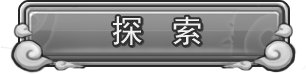
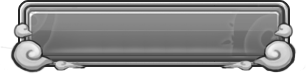
添加bossLayer

Changed region(s): [[0.3529, 0.1892, 0.4706, 0.6486], [0.5588, 0.1892, 0.6765, 0.6486]]

diff --git a/client/cocos2d-x-2.2.1/projects/Magpie/Resources/src/view/mainModule/bossLayer.js b/client/cocos2d-x-2.2.1/projects/Magpie/Resources/src/view/mainModule/bossLayer.js
@@ -1,3 +1,193 @@
 /**
  * Created by lujunyu on 14-2-27.
  */
+
+var BossLayer = cc.Layer.extend({
+    _bossLayerFit: null,
+
+    init: function () {
+        cc.log("BossLayer init");
+
+        if (!this._super()) return false;
+
+        this._bossLayerFit = gameFit.mainScene.bossLayer;
+
+        var bgSprite = cc.Sprite.create(main_scene_image.bg11);
+        bgSprite.setAnchorPoint(cc.p(0, 0));
+        bgSprite.setPosition(this._bossLayerFit.bgSpritePoint);
+        this.addChild(bgSprite);
+
+        var headIcon = cc.Sprite.create(main_scene_image.icon2);
+        headIcon.setAnchorPoint(cc.p(0, 0));
+        headIcon.setPosition(this._bossLayerFit.headIconPoint);
+        this.addChild(headIcon);
+
+        var titleIcon = cc.Sprite.create(main_scene_image.icon394);
+        titleIcon.setPosition(this._bossLayerFit.titleIconPoint);
+        this.addChild(titleIcon);
+
+        var headLabel = cc.Sprite.create(main_scene_image.icon147);
+        headLabel.setAnchorPoint(cc.p(0, 0));
+        headLabel.setPosition(this._bossLayerFit.headLabelPoint);
+        this.addChild(headLabel);
+
+        var goldIcon = cc.Sprite.create(main_scene_image.icon148);
+        goldIcon.setPosition(this._bossLayerFit.goldIconPoint);
+        this.addChild(goldIcon);
+
+        this._goldLabel = cc.LabelTTF.create("100000", "STHeitiTC-Medium", 20);
+        this._goldLabel.setAnchorPoint(cc.p(0, 0.5));
+        this._goldLabel.setPosition(this._bossLayerFit.goldLabelPoint);
+        this.addChild(this._goldLabel);
+
+        var bossNameLabel = cc.LabelTTF.create("无敌大魔王", "STHeitiTC-Medium", 30);
+        bossNameLabel.setAnchorPoint(cc.p(0.5, 0));
+        bossNameLabel.setPosition(this._bossLayerFit.bossNameLabelPoint);
+        bossNameLabel.setColor(cc.c3b(252, 254, 143));
+        this.addChild(bossNameLabel);
+
+        var runAwayTimeLabel = cc.LabelTTF.create("逃跑时间: ", "STHeitiTC-Medium", 22);
+        runAwayTimeLabel.setAnchorPoint(cc.p(0.5, 0));
+        runAwayTimeLabel.setPosition(this._bossLayerFit.runAwayLabelPoint);
+        this.addChild(runAwayTimeLabel);
+
+        this._bossCdTimeLabel = cc.LabelTTF.create("00: 00: 00", "STHeitiTC-Medium", 22);
+        this._bossCdTimeLabel.setAnchorPoint(cc.p(0.5, 0));
+        this._bossCdTimeLabel.setPosition(this._bossLayerFit.bossCdTimeLabelPoint);
+        this.addChild(this._bossCdTimeLabel);
+
+        var cardFrame = cc.Sprite.create(main_scene_image.card_frame1);
+        cardFrame.setAnchorPoint(cc.p(0.5, 0));
+        cardFrame.setScale(1.2);
+        cardFrame.setPosition(this._bossLayerFit.cardFramePoint);
+        this.addChild(cardFrame);
+
+        var bossCard = cc.Sprite.create(main_scene_image.card43_half3);
+        bossCard.setAnchorPoint(cc.p(0.5, 0));
+        bossCard.setPosition(this._bossLayerFit.bossCardPoint);
+        bossCard.setScale(1.4);
+        this.addChild(bossCard);
+
+        this._countLeftLabel = cc.LabelTTF.create("剩余攻击次数: 9次", "STHeitiTC-Medium", 25);
+        this._countLeftLabel.setAnchorPoint(cc.p(0.5, 0));
+        this._countLeftLabel.setPosition(this._bossLayerFit.countLeftLabelPoint);
+        this._countLeftLabel.setColor(cc.c3b(167, 28, 0));
+        this.addChild(this._countLeftLabel);
+
+        var inspireIcon = cc.Sprite.create(main_scene_image.icon399);
+        inspireIcon.setAnchorPoint(cc.p(0.5, 0));
+        inspireIcon.setPosition(this._bossLayerFit.inspireIconPoint);
+        this.addChild(inspireIcon);
+
+        var additionBgLabel = cc.Sprite.create(main_scene_image.icon401);
+        additionBgLabel.setAnchorPoint(cc.p(0.5, 0));
+        additionBgLabel.setPosition(this._bossLayerFit.additionBgLabelPoint);
+        this.addChild(additionBgLabel);
+
+        this._additionLabel = cc.LabelTTF.create("攻击加成: 100%", "STHeitiTC-Medium", 20);
+        this._additionLabel.setAnchorPoint(cc.p(0.5, 0));
+        this._additionLabel.setPosition(this._bossLayerFit.additionLabelPoint);
+        this.addChild(this._additionLabel);
+
+        var attackCdTimeLabel = cc.LabelTTF.create("攻击冷却时间: ","STHeitiTC-Medium", 22);
+        attackCdTimeLabel.setAnchorPoint(cc.p(0.5, 0));
+        attackCdTimeLabel.setPosition(this._bossLayerFit.attackCdTimeLabelPoint);
+        this.addChild(attackCdTimeLabel);
+
+        this._cdTimeLabel = cc.LabelTTF.create("00: 00: 00","STHeitiTC-Medium", 22);
+        this._cdTimeLabel.setAnchorPoint(cc.p(0.5, 0));
+        this._cdTimeLabel.setPosition(this._bossLayerFit.cdTimeLabelPoint);
+        this.addChild(this._cdTimeLabel);
+
+        var addItem = cc.MenuItemImage.create(
+            main_scene_image.button16,
+            main_scene_image.button16s,
+            this._onClickAdd,
+            this
+        );
+
+        addItem.setAnchorPoint(cc.p(0.5, 0));
+        addItem.setScale(1.2);
+        addItem.setPosition(this._bossLayerFit.addItemPoint);
+
+        var subItem = cc.MenuItemImage.create(
+            main_scene_image.button35,
+            main_scene_image.button35s,
+            this._onClickSub,
+            this
+        );
+
+        subItem.setAnchorPoint(cc.p(0.5, 0));
+        subItem.setScale(1.2);
+        subItem.setPosition(this._bossLayerFit.subItemPoint);
+
+        var attack = cc.MenuItemImage.create(
+            main_scene_image
+        );
+
+        var backItem = cc.MenuItemImage.create(
+            main_scene_image.button8,
+            main_scene_image.button8s,
+            this._onClickBack,
+            this
+        );
+
+        backItem.setPosition(this._bossLayerFit.backItemPoint);
+
+        var attackRecordItem = cc.MenuItemImage.createWithIcon(
+            main_scene_image.button9,
+            main_scene_image.button9s,
+            main_scene_image.button9d,
+            main_scene_image.icon398,
+            this._onClickAttackRecord,
+            this
+        );
+
+        attackRecordItem.setPosition(this._bossLayerFit.attackRecordItemPoint);
+
+        var menu = cc.Menu.create(addItem, subItem, backItem, attackRecordItem);
+        menu.setPosition(cc.p(0, 0));
+        this.addChild(menu);
+
+        return true;
+    },
+
+    _onClickAdd: function () {
+        cc.log("BossLayer _onClickAdd");
+
+        gameData.sound.playEffect(main_scene_image.click_button_sound, false);
+
+    },
+
+    _onClickSub: function () {
+        cc.log("BossLayer _onClickSub");
+
+        gameData.sound.playEffect(main_scene_image.click_button_sound, false);
+
+    },
+
+    _onClickBack: function () {
+        cc.log("BossLayer _onClickBack");
+
+        gameData.sound.playEffect(main_scene_image.click_button_sound, false);
+
+        MainScene.getInstance().switchLayer(BossListLayer);
+    },
+
+    _onClickAttackRecord: function () {
+        cc.log("BossLayer _onClickAttackRecord");
+
+        gameData.sound.playEffect(main_scene_image.click_button_sound, false);
+    }
+
+});
+
+BossLayer.create = function () {
+    cc.log("BossLayer create");
+
+    var ref = new BossLayer();
+    if (ref && ref.init()) {
+        return ref;
+    }
+    return null;
+};

diff --git a/client/cocos2d-x-2.2.1/projects/Magpie/Resources/src/model/gameFit.js b/client/cocos2d-x-2.2.1/projects/Magpie/Resources/src/model/gameFit.js
@@ -194,6 +194,29 @@ var fit4Iphone4 = {
             "scrollViewSize": cc.size(605, 742),
             "scrollViewPoint": cc.p(57, 119)
         },
+        "bossLayer": {
+            "bgSpritePoint": cc.p(40, 106),
+            "headIconPoint": cc.p(40, 880),
+            "titleIconPoint": cc.p(360, 920),
+            "headLabelPoint": cc.p(40, 817),
+            "goldIconPoint": cc.p(400, 846),
+            "goldLabelPoint": cc.p(430, 844),
+            "bossNameLabelPoint": cc.p(360, 760),
+            "runAwayLabelPoint": cc.p(310, 730),
+            "bossCdTimeLabelPoint": cc.p(410, 730),
+            "cardFramePoint": cc.p(360, 500),
+            "bossCardPoint": cc.p(360, 500),
+            "countLeftLabelPoint": cc.p(360, 470),
+            "inspireIconPoint": cc.p(210, 350),
+            "additionBgLabelPoint": cc.p(410, 370),
+            "additionLabelPoint": cc.p(410, 385),
+            "attackCdTimeLabelPoint": cc.p(300, 150),
+            "cdTimeLabelPoint": cc.p(420, 148),
+            "addItemPoint": cc.p(300, 343),
+            "subItemPoint": cc.p(520, 343),
+            "backItemPoint": cc.p(100, 920),
+            "attackRecordItemPoint": cc.p(600, 846)
+        },
         "bossListLayer": {
             "bgSpritePoint": cc.p(40, 106),
             "headIconPoint": cc.p(40, 880),
@@ -1385,7 +1408,7 @@ var fit4Iphone4 = {
             "headLabelPoint": cc.p(40, 817),
             "goldIconPoint": cc.p(240, 846),
             "moneyIconPoint": cc.p(370, 846),
-            "goldLabelPoint": cc.p(280, 844),
+            "goldLabelPoint": cc.p(270, 844),
             "moneyLabelPoint": cc.p(395, 844),
             "paymentItemPoint": cc.p(600, 846),
             "buyIconPoint": cc.p(535, 841),
@@ -1619,6 +1642,16 @@ var fit4Iphone5 = {
             "scrollViewLayerRect": cc.rect(17, 138, 605, 880),
             "scrollViewSize": cc.size(605, 880),
             "scrollViewPoint": cc.p(17, 138)
+        },
+        "bossLayer": {
+            "bgSpritePoint": cc.p(0, 106),
+            "headIconPoint": cc.p(0, 1056),
+            "titleIconPoint": cc.p(320, 1096),
+            "headLabelPoint": cc.p(0, 993),
+            "goldIconPoint": cc.p(360, 1022),
+            "goldLabelPoint": cc.p(390, 1020),
+            "backItemPoint": cc.p(60, 1096),
+            "attackRecordItemPoint": cc.p(560, 1022)
         },
         "bossListLayer": {
             "bgSpritePoint": cc.p(0, 106),

diff --git a/client/cocos2d-x-2.2.1/projects/Magpie/Resources/src/resource.js b/client/cocos2d-x-2.2.1/projects/Magpie/Resources/src/resource.js
@@ -239,7 +239,8 @@ var main_scene_image = {
     button33: main_scene_path + "button33.png",
     button33s: main_scene_path + "button33s.png",
     button34: main_scene_path + "button34.png",
-//    button35: main_scene_path + "button35.png",
+    button35: main_scene_path + "button35.png",
+    button35s: main_scene_path + "button35s.png",
     button36: main_scene_path + "button36.png",
     button36s: main_scene_path + "button36s.png",
     button36d: main_scene_path + "button36d.png",
@@ -710,6 +711,12 @@ var main_scene_image = {
     icon395: main_scene_path + "icon395.png",
     icon396: main_scene_path + "icon396.png",
     icon397: main_scene_path + "icon397.png",
+    icon398: main_scene_path + "icon398.png",
+    icon399: main_scene_path + "icon399.png",
+    icon400: main_scene_path + "icon400.png",
+    icon401: main_scene_path + "icon401.png",
+    icon402: main_scene_path + "icon402.png",
+    icon403: main_scene_path + "icon403.png",
 
     card30000_head1: main_scene_path + "card30000_head1.png",
     card30000_half1: main_scene_path + "card30000_half1.png",

diff --git a/client/cocos2d-x-2.2.1/projects/Magpie/Resources/src/view/mainModule/exploreLayer.js b/client/cocos2d-x-2.2.1/projects/Magpie/Resources/src/view/mainModule/exploreLayer.js
@@ -145,14 +145,16 @@ var ExploreLayer = cc.Layer.extend({
         );
         backItem.setPosition(this._exploreLayerFit.backItemPoint);
 
-        this._exploreItem = cc.MenuItemImage.create(
+        this._exploreItem = cc.MenuItemImage.createWithIcon(
             main_scene_image.button1,
             main_scene_image.button1s,
             main_scene_image.button1d,
+            main_scene_image.icon403,
             this._onClickExplore,
             this
         );
         this._exploreItem.setPosition(this._exploreLayerFit.exploreItemPoint);
+        this._exploreItem.setOffset(cc.p(0, 5));
 
 
         var menu = cc.Menu.create(backItem, this._exploreItem);

diff --git a/client/cocos2d-x-2.2.1/projects/Magpie/Resources/src/view/mainModule/mainMenuLayer.js b/client/cocos2d-x-2.2.1/projects/Magpie/Resources/src/view/mainModule/mainMenuLayer.js
@@ -20,8 +20,8 @@ var MainMenuLayer = cc.Layer.extend({
     _markSprite: null,
     _layer: [
         [MainLayer],
-        [InstancesLayer, TaskLayer, ExploreLayer,PassLayer],
-        [BossListLayer],
+        [InstancesLayer, TaskLayer, ExploreLayer, PassLayer],
+        [BossListLayer, BossLayer],
         [TournamentLayer],
         [CardListLayer],
         [ShopLayer]

diff --git a/client/cocos2d-x-2.2.1/projects/Magpie/Resources/src/model/lz.js b/client/cocos2d-x-2.2.1/projects/Magpie/Resources/src/model/lz.js
@@ -385,7 +385,6 @@ lz.tipReward = function (reward) {
  * fmt: 格式
  * */
 lz.getTimeStr = function (args) {
-    cc.log("BattleMessageLayer _getTimeStr");
 
     var date = (args && args.time) ? new Date(args.time) : new Date();
     var fmt = (args && args.fmt) ? args.fmt : "hh:mm:ss";

diff --git a/client/cocos2d-x-2.2.1/projects/Magpie/Resources/src/view/mainModule/bossListLayer.js b/client/cocos2d-x-2.2.1/projects/Magpie/Resources/src/view/mainModule/bossListLayer.js
@@ -313,6 +313,8 @@ var BossListLayer = cc.Layer.extend({
             cc.log("BossListLayer _onClickBoss: " + id);
 
             gameData.sound.playEffect(main_scene_image.click_button_sound, false);
+
+            MainScene.getInstance().switchLayer(BossLayer);
         }
     }
 
